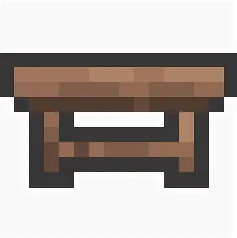
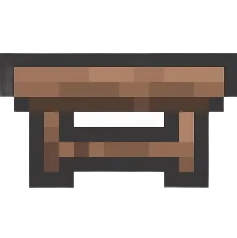
добавил книжные шкафы, столы - объекты окружения. появился посетитель магазина, который приходит в библиотеку и клянчит книгу. добавил задание с книгой

diff --git a/venv/main.py b/venv/main.py
@@ -1,4 +1,6 @@
 import arcade
+import random
+import math
 
 # Константы
 SPEED = 4
@@ -7,15 +9,18 @@ SCREEN_HEIGHT = 700
 CAMERA_LERP = 0.13
 SCREEN_TITLE = "Fantom of library"
 
-# Размеры кнопок
 BUTTON_WIDTH = 300
 BUTTON_HEIGHT = 80
+VISITOR_SCALE = 6
+PLAYER_SCALE = 0.35
+TABLE_SCALE = 0.3
+BOOKSHELF_SCALE = 0.25
+BOOK_SCALE = 0.5
 
-VISITOR_SCALE = 5
+INTERACTION_DISTANCE = 80
 
 
 class Button:
-    """Простая кнопка без использования спрайтов"""
     def __init__(self, text: str, center_x: float, center_y: float,
                  width=BUTTON_WIDTH, height=BUTTON_HEIGHT, color=arcade.color.DARK_GREEN):
         self.text = text
@@ -28,33 +33,19 @@ class Button:
         self.font_size = 24
 
     @property
-    def left(self):
-        return self.center_x - self.width / 2
-
+    def left(self): return self.center_x - self.width / 2
     @property
-    def right(self):
-        return self.center_x + self.width / 2
-
+    def right(self): return self.center_x + self.width / 2
     @property
-    def top(self):
-        return self.center_y + self.height / 2
-
+    def top(self): return self.center_y + self.height / 2
     @property
-    def bottom(self):
-        return self.center_y - self.height / 2
+    def bottom(self): return self.center_y - self.height / 2
 
     def draw(self):
         rect = arcade.rect.XYWH(self.center_x, self.center_y, self.width, self.height)
         arcade.draw_rect_filled(rect, self.color)
-        arcade.draw_text(
-            self.text,
-            self.center_x,
-            self.center_y,
-            self.text_color,
-            self.font_size,
-            anchor_x="center",
-            anchor_y="center"
-        )
+        arcade.draw_text(self.text, self.center_x, self.center_y, self.text_color,
+                         self.font_size, anchor_x="center", anchor_y="center")
 
     def is_clicked(self, x: float, y: float) -> bool:
         return self.left < x < self.right and self.bottom < y < self.top
@@ -106,37 +97,134 @@ class GameView(arcade.View):
         self.collision_list = self.tile_map.sprite_lists.get("collision", arcade.SpriteList())
 
         self.all_sprites = arcade.SpriteList()
+        self.tables = arcade.SpriteList()
+        self.bookshelves = arcade.SpriteList()
 
         self.player_texture_right = arcade.load_texture('ghost.png')
         self.player_texture_left = arcade.load_texture('ghost_l.png')
         self.visitor_texture = arcade.load_texture('visitor_1.png')
+        self.book_texture = arcade.load_texture('book.png')
+        self.bookshelf_texture = arcade.load_texture('bookshelf.png')
+        self.table_texture = arcade.load_texture('table.png')
 
         self.world_camera = arcade.camera.Camera2D()
         self.map_width = self.tile_map.width * self.tile_map.tile_width
         self.map_height = self.tile_map.height * self.tile_map.tile_height
 
+        self.has_book = False
+        self.quest_active = False
+        self.target_bookshelf = None
+        self.visitor = None
+        self.current_table = None
+
+        self.visitor_spawn_timer = random.uniform(5.0, 15.0)
+        self.quest_timer = None
+        self.quest_delay = None
+
     def setup(self):
         # Игрок
-        self.player = arcade.Sprite(self.player_texture_right, scale=0.35)
+        self.player = arcade.Sprite(self.player_texture_right, scale=PLAYER_SCALE)
         self.player.center_x = 7 * self.cell_size + self.cell_size // 2
         self.player.center_y = 5 * self.cell_size + self.cell_size // 2
         self.all_sprites.append(self.player)
 
-        # Посетитель — с увеличенным масштабом
-        self.visitor = arcade.Sprite(self.visitor_texture, scale=VISITOR_SCALE)
-        self.visitor.center_x = 9 * self.cell_size + self.cell_size // 2
-        self.visitor.center_y = 5 * self.cell_size + self.cell_size // 2
-        self.all_sprites.append(self.visitor)
+        # Столы
+        num_tables = 4
+        margin = 150
+        usable_width = self.map_width - 2 * margin
+        for i in range(num_tables):
+            if num_tables > 1:
+                x = margin + i * (usable_width / (num_tables - 1))
+            else:
+                x = self.map_width / 2
+            table = arcade.Sprite(self.table_texture, scale=TABLE_SCALE)
+            table.left = x
+            table.bottom = 70
+            self.tables.append(table)
+            self.all_sprites.append(table)
+
+        # Шкафы
+        num_shelves = 5
+        for i in range(num_shelves):
+            if num_shelves > 1:
+                x = margin + i * (usable_width / (num_shelves - 1))
+            else:
+                x = self.map_width / 2
+            shelf = arcade.Sprite(self.bookshelf_texture, scale=BOOKSHELF_SCALE)
+            shelf.left = x
+            shelf.bottom = 68
+            self.bookshelves.append(shelf)
+            self.object_list.append(shelf)
 
         self.physics_engine = arcade.PhysicsEngineSimple(self.player, self.collision_list)
+
+    def spawn_visitor(self):
+        if self.visitor is not None:
+            return
+
+        entrance_x = 100
+        entrance_y = 118
+
+        self.visitor = arcade.Sprite(self.visitor_texture, scale=VISITOR_SCALE)
+        self.visitor.center_x = entrance_x
+        self.visitor.center_y = entrance_y
+
+        if len(self.tables) == 0:
+            return
+        self.current_table = random.choice(self.tables)
+        self.visitor.target_x = self.current_table.center_x
+        self.visitor.target_y = entrance_y
+        self.visitor.arrived = False
+
+        self.all_sprites.append(self.visitor)
+        self.quest_delay = random.uniform(3.0, 8.0)
+        self.quest_timer = 0.0
+
+    def start_quest(self):
+        if self.quest_active or self.visitor is None:
+            return
+        self.quest_active = True
+        self.target_bookshelf = random.choice(self.bookshelves)
 
     def on_draw(self):
         self.clear()
         self.world_camera.use()
+
         self.walls_behind_list.draw()
         self.wall_list.draw()
         self.object_list.draw()
         self.all_sprites.draw()
+
+        # Подсветка шкафа
+        if self.quest_active and self.target_bookshelf and not self.has_book:
+            arcade.draw_circle_filled(
+                self.target_bookshelf.center_x,
+                self.target_bookshelf.center_y + 30,
+                20, arcade.color.YELLOW
+            )
+
+        # Инвентарь — книга в правом нижнем углу
+        if self.has_book:
+            self.window.default_camera.use()
+            book_x = SCREEN_WIDTH - 60
+            book_y = 60
+            rect = arcade.rect.XYWH(book_x, book_y, 50, 60)
+            arcade.draw_texture_rect(self.book_texture, rect)  # ← ПРАВИЛЬНЫЙ ПОРЯДОК!
+
+        # Задание
+        self.window.default_camera.use()
+        if self.quest_active and not self.has_book:
+            arcade.draw_text(
+                "Посетителю нужна книга! Подойдите к подсвеченному шкафу и нажмите E",
+                20, SCREEN_HEIGHT - 40,
+                arcade.color.WHITE, 16, bold=True
+            )
+        elif self.has_book:
+            arcade.draw_text(
+                "Отнесите книгу посетителю и нажмите E",
+                20, SCREEN_HEIGHT - 40,
+                arcade.color.GREEN, 16, bold=True
+            )
 
     def on_update(self, delta_time: float):
         self.physics_engine.update()
@@ -149,11 +237,29 @@ class GameView(arcade.View):
 
         half_w = self.world_camera.viewport_width / 2
         half_h = self.world_camera.viewport_height / 2
-
         new_x = max(half_w, min(self.map_width - half_w, new_x))
         new_y = max(half_h, min(self.map_height - half_h, new_y))
-
         self.world_camera.position = (new_x, new_y)
+
+        self.visitor_spawn_timer -= delta_time
+        if self.visitor_spawn_timer <= 0 and self.visitor is None:
+            self.spawn_visitor()
+
+        # Движение посетителя — ТОЛЬКО ПО ГОРИЗОНТАЛИ
+        if self.visitor and not self.visitor.arrived:
+            dx = self.visitor.target_x - self.visitor.center_x
+            dist = abs(dx)
+            if dist < 5:
+                self.visitor.arrived = True
+            else:
+                visitor_speed = 100
+                self.visitor.center_x += math.copysign(visitor_speed * delta_time, dx)
+
+        if self.visitor and self.visitor.arrived and self.quest_delay is not None:
+            self.quest_timer += delta_time
+            if self.quest_timer >= self.quest_delay:
+                self.start_quest()
+                self.quest_delay = None
 
     def on_key_press(self, key, modifiers):
         if key == arcade.key.W:
@@ -166,6 +272,8 @@ class GameView(arcade.View):
         elif key == arcade.key.D:
             self.player.change_x = SPEED
             self.player.texture = self.player_texture_right
+        elif key == arcade.key.E:
+            self.handle_interaction()
         elif key == arcade.key.ESCAPE:
             pause = PauseView(self)
             self.window.show_view(pause)
@@ -175,6 +283,33 @@ class GameView(arcade.View):
             self.player.change_y = 0
         if key in (arcade.key.A, arcade.key.D):
             self.player.change_x = 0
+
+    def handle_interaction(self):
+        if not self.quest_active:
+            return
+
+        if self.quest_active and not self.has_book and self.target_bookshelf:
+            dist = math.hypot(
+                self.player.center_x - self.target_bookshelf.center_x,
+                self.player.center_y - self.target_bookshelf.center_y
+            )
+            if dist < INTERACTION_DISTANCE:
+                self.has_book = True
+                return
+
+        if self.has_book and self.visitor:
+            dist = math.hypot(
+                self.player.center_x - self.visitor.center_x,
+                self.player.center_y - self.visitor.center_y
+            )
+            if dist < INTERACTION_DISTANCE:
+                self.has_book = False
+                self.quest_active = False
+                self.target_bookshelf = None
+                self.visitor_spawn_timer = random.uniform(10.0, 20.0)
+
+    def on_close(self):
+        super().on_close()
 
 
 class MainMenu(arcade.View):
